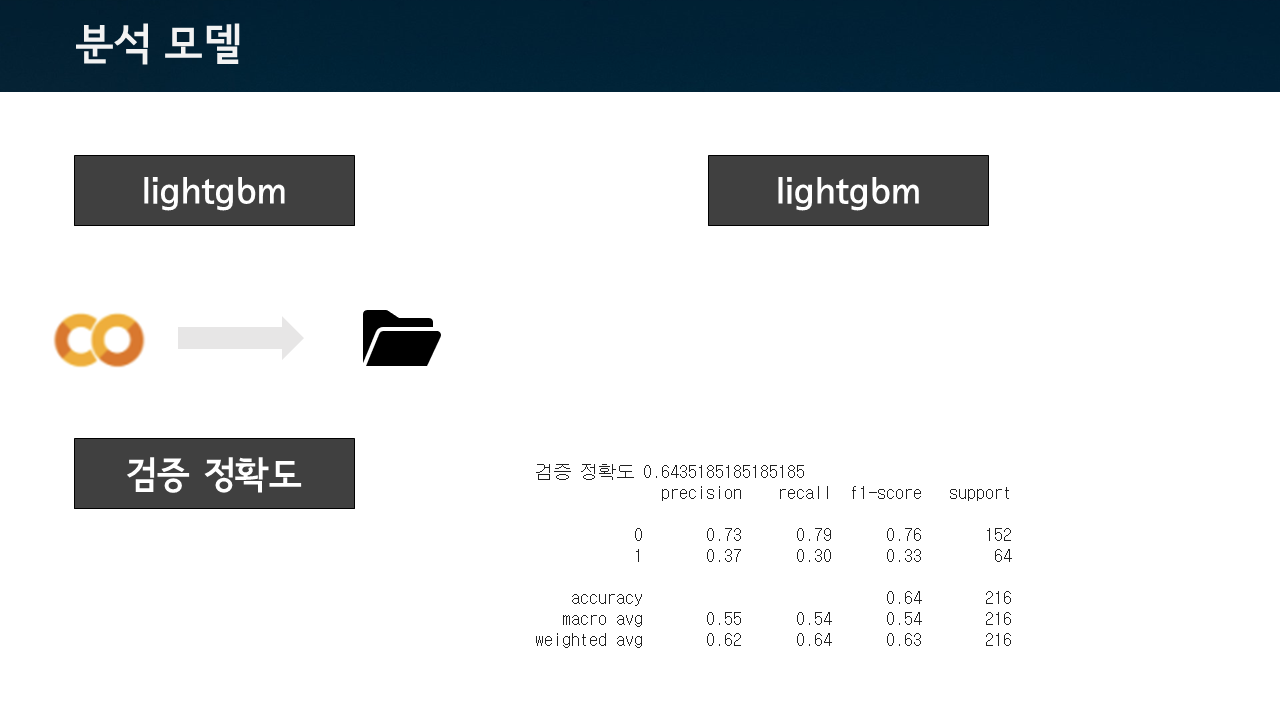
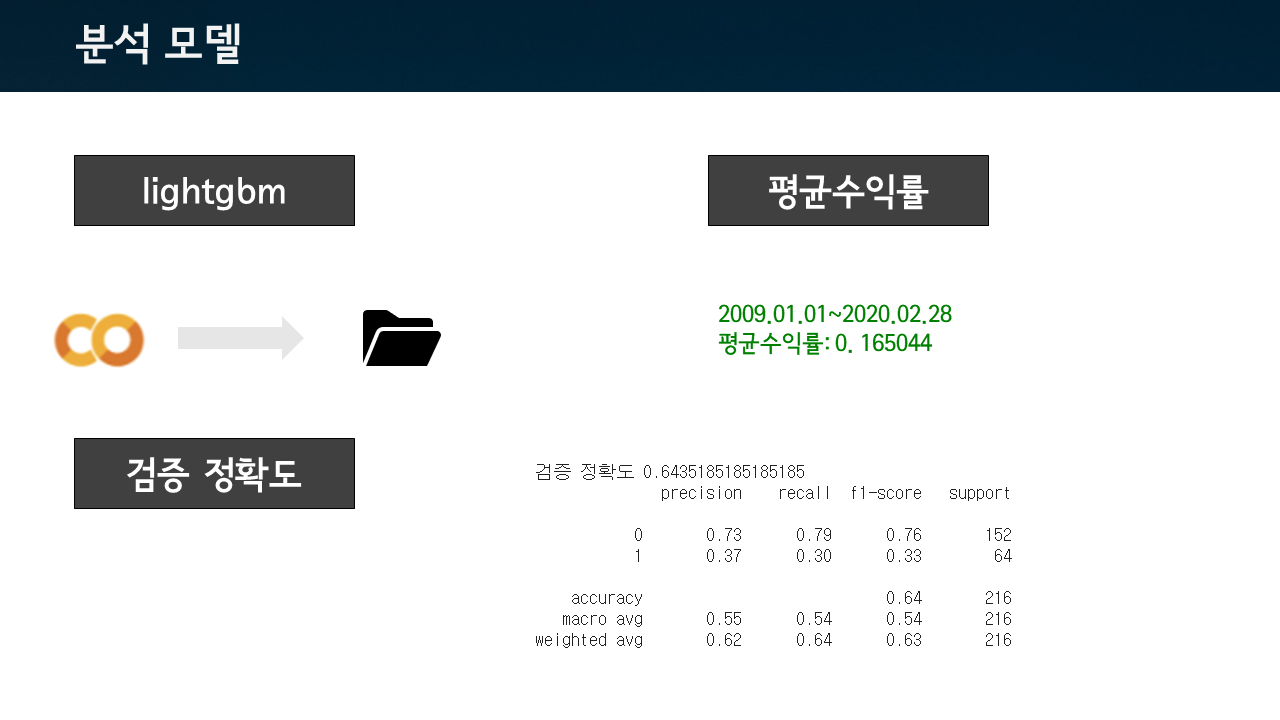
slides

Changed region(s): [[0.5625, 0.4278, 0.75, 0.4889], [0.5938, 0.2444, 0.7188, 0.3056]]

diff --git a/ipo_app/templates/intro.html b/ipo_app/templates/intro.html
@@ -26,13 +26,8 @@
 				</div>
 			</div>
 		</nav>
-		<article id="edbe9481-2498-414b-85a6-d5e3d51f436d" class="page sans"><header><h1 class="page-title">프로젝트 소개</h1></header><div class="page-body"><p id="281fcee5-1cdf-4d52-a62a-ab41554d050e" class="">
-		</p><h2 id="758326e9-b1a0-41de-a47b-fc99a9703bf7" class="">웹 어플리케이션 소개</h2><p id="215bedd0-93ce-4298-b0a7-d0e28747f879" class="">구조</p><p id="841370ef-5ff3-49af-9c6d-5300cdb827a3" class="">
-		</p><p id="71a4a28e-6e49-480f-a419-e7e8235dc1fc" class="">데이터 분석 목적: 기업 공모 청약에 참여하려는 사람들에게 대략적인 가이드라인을 줄 수 있다.</p><p id="51f4a1a1-b7a1-4eb1-8234-ed50a8248501" class="">
-		</p><p id="e3f834b9-20bc-4dfa-a561-70743f3ebf9c" class="">사용한 데이터:</p><p id="970ff0ef-a28c-4ad5-adf1-2b912bd1d758" class="">
-		</p><p id="b319f720-1a96-437d-b12b-a06c55e20a34" class="">데이터베이스:</p><p id="693c2425-8b71-47d2-853a-1fa8d6459fcc" class="">
-		</p><p id="241fd76b-d3b2-44c2-a49b-f3707e4a50ff" class="">모델 소개</p><p id="fc60ba26-7800-49a0-8128-1d1ac66245df" class="">
-		</p><p id="0e72693c-d3a0-469c-85b5-aac98b57a2cd" class="">배포</p></div>
-		</article>
+	
+		<img src="https://github.com/terri1102/Section3_Project/blob/master/slides/%EC%8A%AC%EB%9D%BC%EC%9D%B4%EB%93%9C1.PNG?raw=true" border="0"></a>
+		<img src="https://github.com/terri1102/Section3_Project/blob/master/slides/%EC%8A%AC%EB%9D%BC%EC%9D%B4%EB%93%9C2.PNG?raw=true" border="0"></a>
 	</body>
 </html>
